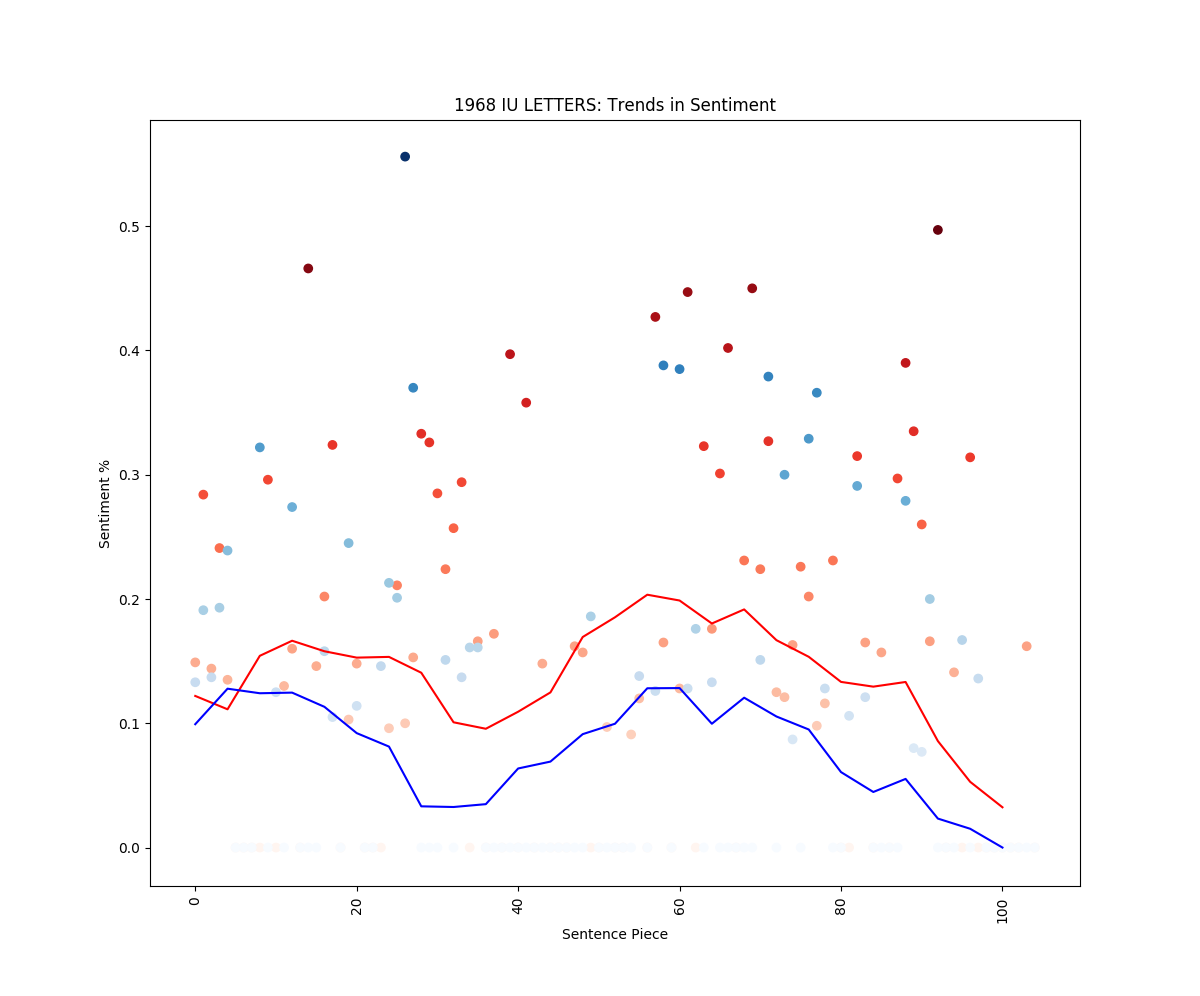
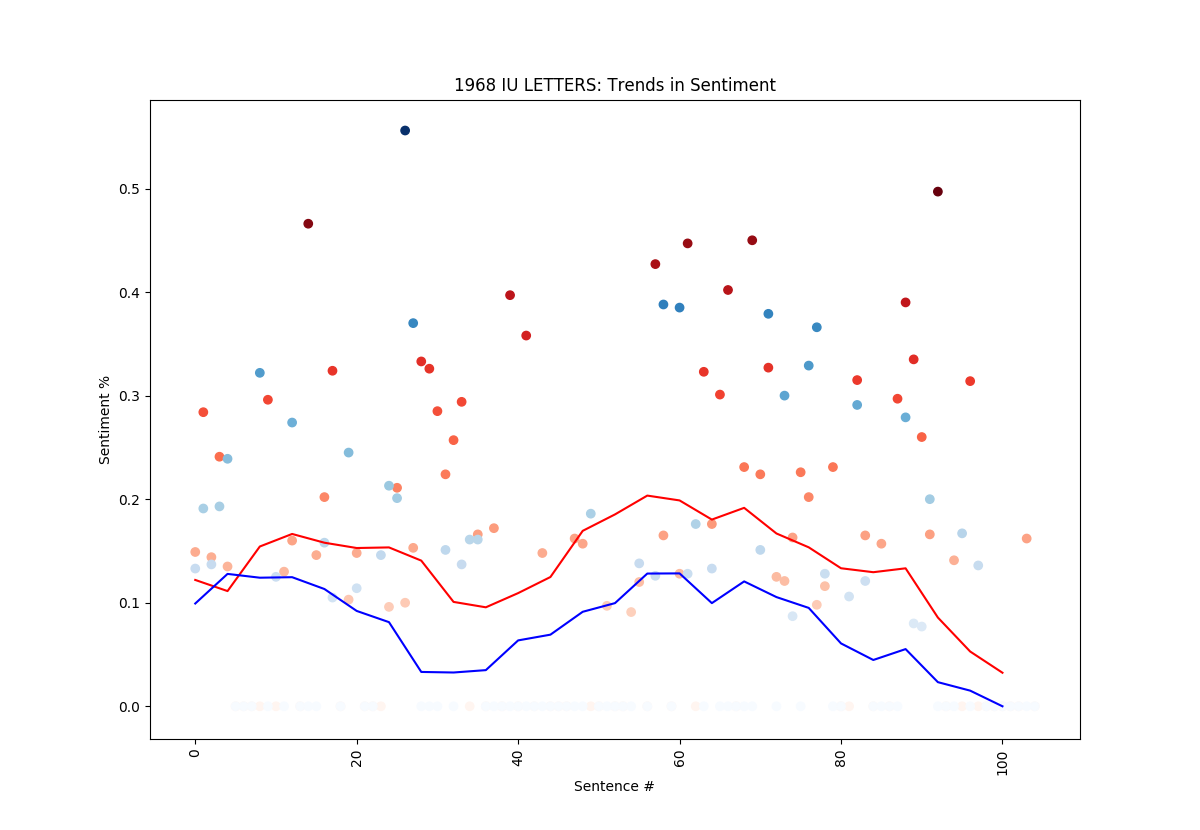
update comments

diff --git a/npl_analysis.py b/npl_analysis.py
@@ -1,5 +1,5 @@
 # NPL and Sentiment Analysis of Anti-Racism Letters
-# python3 demand_letter_analysis.py
+# python3 npl_analysis.py
 import os
 import math
 import matplotlib.pyplot as plt
@@ -116,12 +116,12 @@ def sentimentAnalysis(plot_title_from_file_name, root_dir, file_as_tokens):
 
 	# Plot as Group
 	fig = plt.figure(figsize=(12,12), dpi=100)
-	plt.title("{0}: Postive/Negative Sentiment".format(plot_title_from_file_name))
+	plt.title("{0}: Postive and Negative Sentiment".format(plot_title_from_file_name))
 	plt.scatter(sent_dict_postive.keys(), sent_dict_postive.values(), c=[i * 10 for i in sent_dict_postive.values()], cmap=color_plot["Postive"])
 	#plt.scatter(sent_dict_neutral.keys(), sent_dict_neutral.values(), c=[i * 10 for i in sent_dict_neutral.values()], cmap=color_plot["Neutral"])
 	plt.scatter(sent_dict_negative.keys(), sent_dict_negative.values(), c=[i * 10 for i in sent_dict_negative.values()], cmap=color_plot["Negative"])
 	plt.xticks(rotation=90)
-	plt.xlabel("Sentence Piece")
+	plt.xlabel("Sentence #")
 	plt.ylabel("Sentiment %")
 	fig.savefig('{0}/{1}_pos_and_neg_sentiment.png'.format(root_dir, plot_title_from_file_name.replace(" ", "_").lower()))
 
@@ -147,7 +147,7 @@ def sentimentAnalysis(plot_title_from_file_name, root_dir, file_as_tokens):
 	plt.plot(list(average_pos_dict.keys()), list(average_pos_dict.values()), c="red")
 	plt.plot(list(average_neg_dict.keys()), list(average_neg_dict.values()), c="blue")
 	plt.xticks(rotation=90)
-	plt.xlabel("Sentence Piece")
+	plt.xlabel("Sentence #")
 	plt.ylabel("Sentiment %")
 	plt.show()
 	fig.savefig('{0}/{1}_pos_and_neg_sentiment.png'.format(root_dir, plot_title_from_file_name.replace(" ", "_").lower()))
